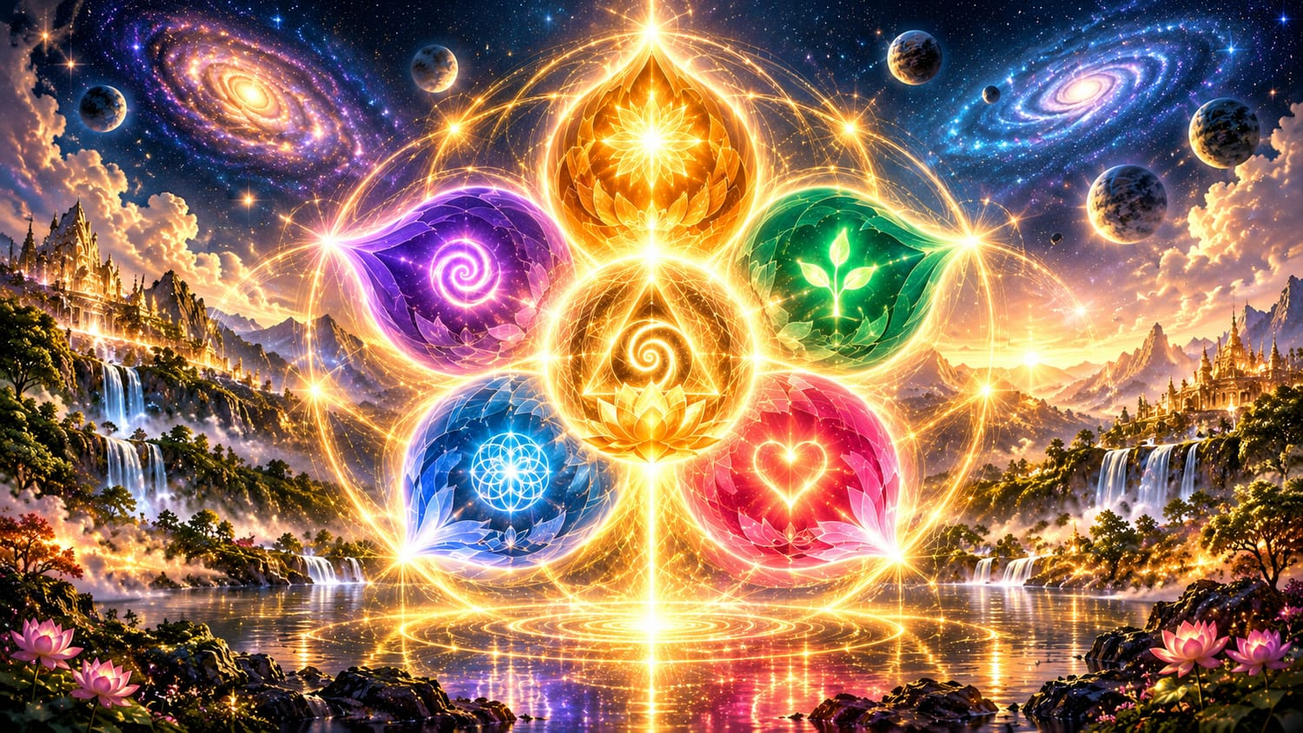
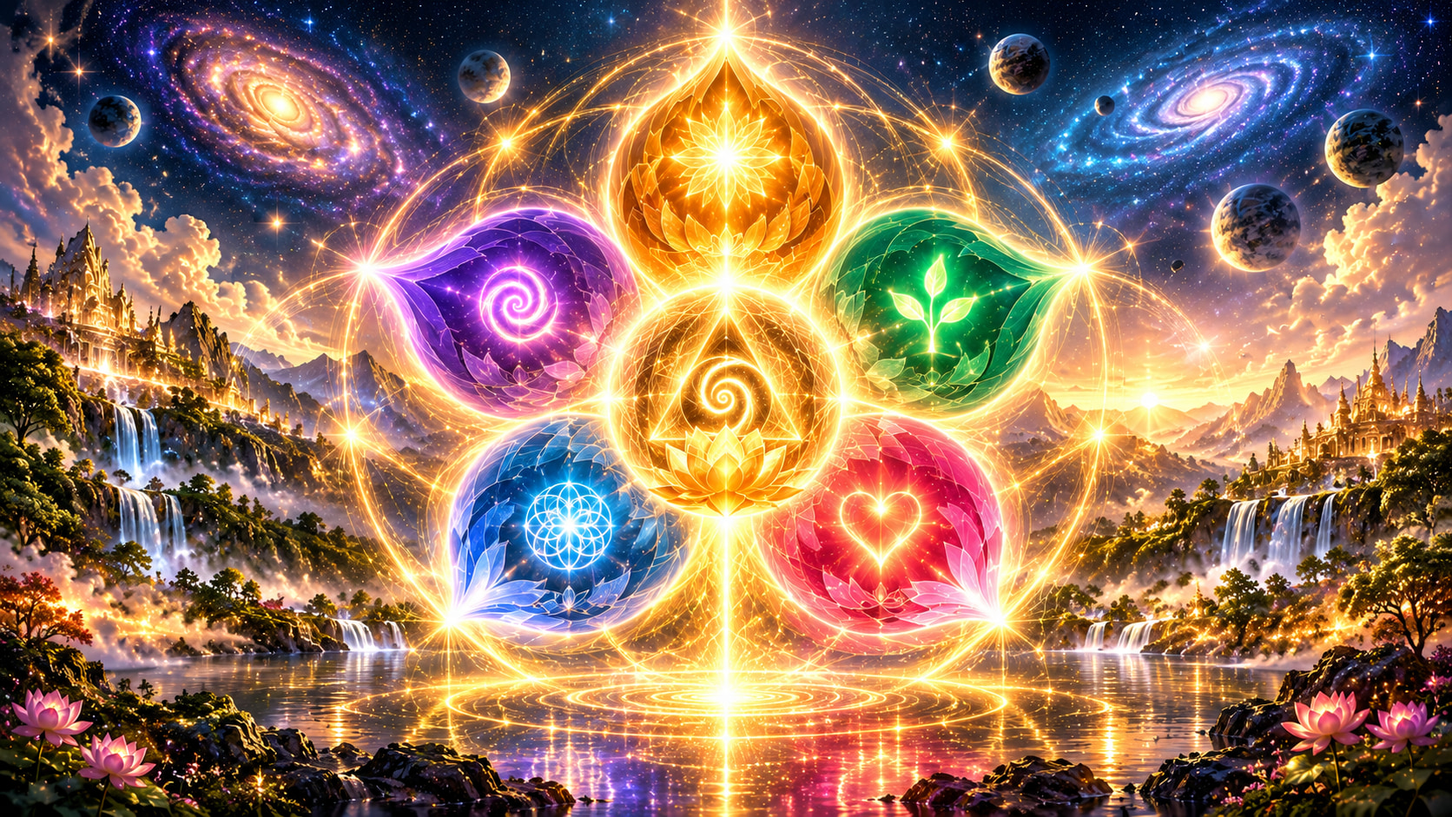
Open the site to search engines, restore full image quality
- Remove noindex from all public pages; add robots.txt and sitemap.xml (admin stays noindex and is never listed)
- Rebuild every site image from its lossless master at full native resolution (JPEG q92, 4:4:4, progressive)
  instead of the 1400px/q78 versions used for speed; portrait is now a lossless WebP with transparency
- Book covers re-encoded at higher quality; emblem at 640px; image width/height attributes match the files

diff --git a/vision.html b/vision.html
@@ -3,7 +3,6 @@
 <head>
 <meta charset="utf-8">
 <meta name="viewport" content="width=device-width, initial-scale=1">
-<meta name="robots" content="noindex, nofollow">
 <title>Consciousness Calling Vision</title>
 <link rel="icon" href="assets/img/img-02-emblem-transparent.png">
 <link rel="preconnect" href="https://fonts.googleapis.com">
@@ -51,7 +50,7 @@
         <p>The Master Light does not wait for every mind to awaken. Human beings may experience and express wisdom, compassion, truth and service without knowing the same spiritual vocabulary. Forms are many; the Supreme Consciousness that guides is One.</p>
         <div class="btns"><a class="btn ghost" href="master-light.html">Explore The Master Light</a></div>
       </div>
-    <figure class="figure fullimg opener" style="max-width:420px;margin:0 auto" data-fit-media><img src="assets/img/img-05-master-light-ebook.jpg" alt="Golden-light artwork from the eBook, with a radiant star above the words: God never left. He became your breath, your Heart, your Guru, until you remembered He was you. The Master Light lives within every Soul." width="900" height="1125" loading="eager" decoding="async" fetchpriority="high"></figure>
+    <figure class="figure fullimg opener" style="max-width:420px;margin:0 auto" data-fit-media><img src="assets/img/img-05-master-light-ebook.jpg" alt="Golden-light artwork from the eBook, with a radiant star above the words: God never left. He became your breath, your Heart, your Guru, until you remembered He was you. The Master Light lives within every Soul." width="1122" height="1402" loading="eager" decoding="async" fetchpriority="high"></figure>
     </div>
     <div class="narrow">
       <h3 style="margin-top:1.4em">One Consciousness — Three Divine Expressions</h3>
@@ -64,7 +63,7 @@
     <div class="narrow">
       <p style="margin-top:1.4em">These associations belong to the author’s contemplative framework; they are not presented as an identical doctrine across all traditions. Śiva as silent Presence, Śakti as living expression, and Mahāviṣṇu as the Living Field in which the Soul experiences and remembers. These are contemplative functional expressions of One Supreme Consciousness and not separate or incomplete aspects of Sat–Chit–Ānanda.</p>
     </div>
-    <div class="figure" style="max-width:520px;margin:1.5em auto"><img src="assets/img/img-06-shiva-shakti-mahavishnu.jpg" alt="Artwork of Śiva, Śakti and Mahāviṣṇu above a meditating figure, linked by a column of golden light." width="1100" height="1375" loading="lazy" decoding="async"></div>
+    <div class="figure" style="max-width:520px;margin:1.5em auto"><img src="assets/img/img-06-shiva-shakti-mahavishnu.jpg" alt="Artwork of Śiva, Śakti and Mahāviṣṇu above a meditating figure, linked by a column of golden light." width="1229" height="1536" loading="lazy" decoding="async"></div>
     <div class="narrow">
       <p class="lightcode">LIGHT CODE | ONE CONSCIOUSNESS → MANY HEARTS → ONE LIVING FIELD</p>
     </div>
@@ -81,7 +80,7 @@
     <p>Personal inspirations include Lord Śrī Krishna, Jesus, Ādi Śaṅkarācārya, Sri Dattatreya Swami, Śrīpāda Śrīvallabha and the Datta tradition, Maha Avatar Babaji (Kriya Babaji), Narasimha Saraswati, Akkalkot Maharaj, Manik Prabhu, Saptarishis, Potuluri Veerabrahmendra Swami, Shirdi Sai, 18 Sidda masters, Saptarishis, Ramana Maharshi, Swami Jyoti Ramalingam, Sri Aurobindo and The Mother, and Bhagavan Sri Sathya Sai Baba. This is a personal recognition of guidance, not a claim that these teachers taught the same philosophy.</p>
     <p>The Eternal Guru Presence does not ask us to reject living teachers or sacred forms. Outer guidance can deepen inner discernment, Dharma, compassion and responsible living.</p>
     <p class="lightcode">LIGHT CODE | OUTER GUIDANCE → INNER LIGHT → MASTER LIGHT → LIVING LIGHT &amp; LOVE</p>
-    <div class="figure fullimg wide"><img src="assets/img/img-05-one-light-many-guides.jpg" alt="Artwork titled One Light, Many Guides: many forms, one Eternal Presence. Eleven luminous portraits of spiritual guides arranged around a glowing heart above a meditating figure, with the Light Code Outer Guidance, Inner Light, Master Light, Living Light and Love." width="1400" height="788" loading="lazy" decoding="async"></div>
+    <div class="figure fullimg wide"><img src="assets/img/img-05-one-light-many-guides.jpg" alt="Artwork titled One Light, Many Guides: many forms, one Eternal Presence. Eleven luminous portraits of spiritual guides arranged around a glowing heart above a meditating figure, with the Light Code Outer Guidance, Inner Light, Master Light, Living Light and Love." width="1672" height="941" loading="lazy" decoding="async"></div>
   </div>
 </section>
 
@@ -96,7 +95,7 @@
     <p>Through personal Sādhana and reflection, the author offers an invitation—not a demand for belief. Readers are encouraged to notice, question, feel, discern and discover through their own experience.</p>
     <p class="lightcode">LIGHT CODE | MIND → HEART → INNER RECOGNITION → LOVE IN ACTION</p>
     <div class="flow" aria-label="Mind to Heart to Everyday Life"><span>Mind</span><i>→</i><span>Heart</span><i>→</i><span>Everyday Life</span></div>
-    <img class="emblem" src="assets/img/img-02-emblem-transparent.png" alt="Heart Awakening emblem: a golden circle holding a triangle and spiral above an open lotus." style="width:200px;margin:1.5em auto 0;display:block" width="420" height="420" loading="lazy" decoding="async">
+    <img class="emblem" src="assets/img/img-02-emblem-transparent.png" alt="Heart Awakening emblem: a golden circle holding a triangle and spiral above an open lotus." style="width:200px;margin:1.5em auto 0;display:block" width="640" height="640" loading="lazy" decoding="async">
   </div>
 </section>
 
@@ -119,14 +118,14 @@
       <p style="margin-top:1.4em">In this vision, 3D, 4D and 5D describe a contemplative movement from identification and separation toward self-observation, Heart-centered awareness, compassion and conscious living. The central invitation is to live differently on Earth, through relationships, responsibilities and service.</p>
       <h3>A symbolic Light Code for HUMAN</h3>
     </div>
-    <div class="figure fullimg wide"><img src="assets/img/img-human-light-code.jpg" alt="Artwork titled HUMAN, a symbolic Light Code: HU, Divine Light, plus MAN, Human embodiment, equals HUMAN, Light experiencing Life through form, with the Light Code Identification, Awareness, Heart, Conscious Living." width="1400" height="788" loading="lazy" decoding="async"></div>
+    <div class="figure fullimg wide"><img src="assets/img/img-human-light-code.jpg" alt="Artwork titled HUMAN, a symbolic Light Code: HU, Divine Light, plus MAN, Human embodiment, equals HUMAN, Light experiencing Life through form, with the Light Code Identification, Awareness, Heart, Conscious Living." width="1672" height="941" loading="lazy" decoding="async"></div>
     <div class="narrow">
       <p>HU + MAN is offered as a symbolic Light Code for reflecting on Divine Light and human embodiment. The deeper message is that the Light has never left; awakening is remembering and living from that Presence.</p>
       <p class="quote caps" style="font-family:var(--sans);font-style:normal">ASCENSION IS NOT THE RETURN OF LIGHT. IT IS THE HUMAN REMEMBERING THE LIGHT THAT NEVER LEFT.</p>
       <p>The Heart Awakening is not about leaving Earth. It is about living differently on Earth—in relationships, work, Dharma, compassion and service.</p>
       <p class="lightcode">LIGHT CODE | IDENTIFICATION → AWARENESS → HEART → CONSCIOUS LIVING</p>
     </div>
-    <div class="figure"><img src="assets/img/img-08-heart-awakening.jpg" alt="Artwork titled The Heart Awakening, the 5D Consciousness Vision: a figure walking through a fractured city (3D, the Identified Mind), a luminous Earth (4D, the Awakening Awareness) and a flowering landscape (5D, the Heart-Centered Life)." width="1400" height="788" loading="lazy" decoding="async"></div>
+    <div class="figure"><img src="assets/img/img-08-heart-awakening.jpg" alt="Artwork titled The Heart Awakening, the 5D Consciousness Vision: a figure walking through a fractured city (3D, the Identified Mind), a luminous Earth (4D, the Awakening Awareness) and a flowering landscape (5D, the Heart-Centered Life)." width="1672" height="941" loading="lazy" decoding="async"></div>
   </div>
 </section>
 
@@ -141,7 +140,7 @@
     <p>Such recognition finds its true expression not only in spiritual understanding but also in how we live—with compassion, respect for all beings, responsibility toward Nature, and genuine care for the happiness and well-being of others.</p>
     <p class="quote">Samasta Lokāḥ Sukhino Bhavantu — May all beings, in all worlds, be happy.</p>
     <p class="lightcode">LIGHT CODE | MANY PATHS → ONE CONSCIOUSNESS → LIVING COMPASSION → UNIVERSAL WELL-BEING</p>
-    <div class="figure"><img src="assets/img/img-sanatana-dharma.jpg" alt="Artwork titled Sanātana Dharma, Unity in Diversity: many paths and people of different traditions winding through one shared landscape toward a luminous heart and rising sun, with the Light Code Many Paths, One Consciousness, Living Compassion, Universal Well-Being." width="1400" height="787" loading="lazy" decoding="async"></div>
+    <div class="figure"><img src="assets/img/img-sanatana-dharma.jpg" alt="Artwork titled Sanātana Dharma, Unity in Diversity: many paths and people of different traditions winding through one shared landscape toward a luminous heart and rising sun, with the Light Code Many Paths, One Consciousness, Living Compassion, Universal Well-Being." width="1672" height="940" loading="lazy" decoding="async"></div>
   </div>
 </section>
 

diff --git a/index.html b/index.html
@@ -3,7 +3,6 @@
 <head>
 <meta charset="utf-8">
 <meta name="viewport" content="width=device-width, initial-scale=1">
-<meta name="robots" content="noindex, nofollow">
 <title>Consciousness Calling — Living with I AM Presence</title>
 <meta name="description" content="Layout preview: author website for Consciousness Calling — Living with I AM Presence.">
 <link rel="icon" href="assets/img/img-02-emblem-transparent.png">
@@ -31,7 +30,7 @@
     </div>
     <div class="hero-art">
       <p class="hero-caption">One Consciousness. An Ever-Unfolding Journey.</p>
-      <img src="assets/img/img-01-hero.jpg" alt="Artwork of the Five Living Movements: five glowing petals and sacred emblems of light radiating over a cosmic landscape of mountains, waterfalls, galaxies and serene waters with lotus blossoms." width="1500" height="844" loading="eager" decoding="async" fetchpriority="high">
+      <img src="assets/img/img-01-hero.jpg" alt="Artwork of the Five Living Movements: five glowing petals and sacred emblems of light radiating over a cosmic landscape of mountains, waterfalls, galaxies and serene waters with lotus blossoms." width="1672" height="941" loading="eager" decoding="async" fetchpriority="high">
     </div>
   </div>
 </section>
@@ -39,7 +38,7 @@
 <!-- 02 What Is Consciousness Calling? — IMG-02 -->
 <section class="block">
   <div class="wrap narrow center">
-    <img class="emblem" src="assets/img/img-02-emblem-transparent.png" alt="Heart Awakening emblem: a golden circle holding a triangle and spiral above an open lotus." width="420" height="420" loading="lazy" decoding="async">
+    <img class="emblem" src="assets/img/img-02-emblem-transparent.png" alt="Heart Awakening emblem: a golden circle holding a triangle and spiral above an open lotus." width="640" height="640" loading="lazy" decoding="async">
     <h2>What Is Consciousness Calling?</h2>
     <p>Consciousness Calling is not a journey in which a human being strives to reach a distant God. It offers a spiritual vision in which the Supreme Consciousness already present in every Heart is calling from within and expressing itself through human life.</p>
     <p class="quote">Not the Soul searching for Consciousness… but Consciousness calling itself through the Soul.</p>
@@ -101,7 +100,7 @@
 <!-- 06 Inner Sun — IMG-09 -->
 <section class="block">
   <div class="wrap">
-    <div class="figure"><img src="assets/img/img-09-inner-sun.jpg" alt="Artwork titled Living as One: Viṣṇu, Śiva and Śakti as three distinct sacred representations around One Living Reality, with a meditating figure below, and the words Awakening is Recognition." width="1400" height="787" loading="lazy" decoding="async"></div>
+    <div class="figure"><img src="assets/img/img-09-inner-sun.jpg" alt="Artwork titled Living as One: Viṣṇu, Śiva and Śakti as three distinct sacred representations around One Living Reality, with a meditating figure below, and the words Awakening is Recognition." width="1672" height="940" loading="lazy" decoding="async"></div>
     <div class="narrow center">
       <p class="eyebrow">Inner Sun</p>
       <h2>INNER SUN — SHIVA SAKTHI FIELD</h2>
@@ -119,7 +118,7 @@
     <h2>THE SEVEN DOORWAYS — FROM MIND TO HEART</h2>
     <p class="lightcode">NOTICE → PAUSE → FEEL → RECOGNIZE → ALIGN → REMEMBER → LIVE</p>
     <p>Revisitable invitations for conscious living, not compulsory levels of attainment.</p>
-    <div class="figure fullimg wide"><img src="assets/img/img-10-seven-doorways.jpg" alt="Artwork titled The Seven Doorways, From Mind to Heart: seven glowing arched doorways, Notice, Pause, Feel, Recognize, Align, Remember and Live, each with its own symbol, along a flowing stream." width="1400" height="788" loading="lazy" decoding="async"></div>
+    <div class="figure fullimg wide"><img src="assets/img/img-10-seven-doorways.jpg" alt="Artwork titled The Seven Doorways, From Mind to Heart: seven glowing arched doorways, Notice, Pause, Feel, Recognize, Align, Remember and Live, each with its own symbol, along a flowing stream." width="1672" height="941" loading="lazy" decoding="async"></div>
     <div class="btns" style="justify-content:center"><a class="btn ghost" href="explore.html#doorways">Explore The Seven Doorways</a></div>
   </div>
 </section>
@@ -127,7 +126,7 @@
 <!-- 09 Living Light & Love — IMG-12 -->
 <section class="block">
   <div class="wrap center">
-    <div class="figure"><img src="assets/img/img-12-living-light-love.jpg" alt="Closing artwork of Living Light and Love." width="1400" height="788" loading="lazy" decoding="async"></div>
+    <div class="figure"><img src="assets/img/img-12-living-light-love.jpg" alt="Closing artwork of Living Light and Love." width="1672" height="941" loading="lazy" decoding="async"></div>
     <h2>We allow the Light and Love already within us to become our way of living.</h2>
     <div class="btns">
       <a class="btn" href="connect.html#updates">Follow Book Updates</a>

diff --git a/explore.html b/explore.html
@@ -3,7 +3,6 @@
 <head>
 <meta charset="utf-8">
 <meta name="viewport" content="width=device-width, initial-scale=1">
-<meta name="robots" content="noindex, nofollow">
 <title>Explore Consciousness Calling</title>
 <link rel="icon" href="assets/img/img-02-emblem-transparent.png">
 <link rel="preconnect" href="https://fonts.googleapis.com">
@@ -21,7 +20,7 @@
       <h1>THE FIVE LIVING MOVEMENTS</h1>
       <p class="subtitle">One Consciousness. An Ever-Unfolding Journey.</p>
     </div>
-    <div class="figure"><img src="assets/img/img-07-five-movements.jpg" alt="Artwork titled The Five Living Movements, One Consciousness, an Ever-Unfolding Journey: five glowing petals around a central emblem, with Consciousness Calling, Consciousness Revealing, Consciousness Living, Consciousness Embodied and The Great Remembering, and the Light Code Recognize, Reveal, Live, Embody, Remember and Serve." width="1400" height="788" loading="eager" decoding="async" fetchpriority="high"></div>
+    <div class="figure"><img src="assets/img/img-07-five-movements.jpg" alt="Artwork titled The Five Living Movements, One Consciousness, an Ever-Unfolding Journey: five glowing petals around a central emblem, with Consciousness Calling, Consciousness Revealing, Consciousness Living, Consciousness Embodied and The Great Remembering, and the Light Code Recognize, Reveal, Live, Embody, Remember and Serve." width="1672" height="941" loading="eager" decoding="async" fetchpriority="high"></div>
     <ol class="mflow" aria-label="The Five Living Movements">
       <li><strong>Consciousness Calling</strong><span>Hear</span></li>
       <li><strong>Consciousness Revealing</strong><span>See</span></li>
@@ -39,7 +38,7 @@
 
 <section class="block alt" id="heart-awakening">
   <div class="wrap">
-    <div class="figure"><img src="assets/img/img-08-heart-awakening.jpg" alt="Artwork titled The Heart Awakening, the 5D Consciousness Vision: a figure walking through a fractured city (3D, the Identified Mind), a luminous Earth (4D, the Awakening Awareness) and a flowering landscape (5D, the Heart-Centered Life)." width="1400" height="788" loading="lazy" decoding="async"></div>
+    <div class="figure"><img src="assets/img/img-08-heart-awakening.jpg" alt="Artwork titled The Heart Awakening, the 5D Consciousness Vision: a figure walking through a fractured city (3D, the Identified Mind), a luminous Earth (4D, the Awakening Awareness) and a flowering landscape (5D, the Heart-Centered Life)." width="1672" height="941" loading="lazy" decoding="async"></div>
     <div class="narrow center">
       <h2>THE HEART AWAKENING — THE 5D CONSCIOUSNESS VISION</h2>
       <p>The next evolution of human life is not merely about what humanity can create through the Mind, but how consciously humanity can live through the Heart. The Heart Awakening is not about leaving Earth. It is about learning to live differently on Earth.</p>
@@ -56,7 +55,7 @@
       <p class="lightcode">NOTICE → PAUSE → FEEL → RECOGNIZE → ALIGN → REMEMBER → LIVE</p>
       <p>Revisitable invitations for conscious living, not compulsory levels of attainment.</p>
     </div>
-    <div class="figure fullimg wide"><img src="assets/img/img-10-seven-doorways.jpg" alt="Artwork titled The Seven Doorways, From Mind to Heart: seven glowing arched doorways, Notice, Pause, Feel, Recognize, Align, Remember and Live, each with its own symbol, along a flowing stream." width="1400" height="788" loading="lazy" decoding="async"></div>
+    <div class="figure fullimg wide"><img src="assets/img/img-10-seven-doorways.jpg" alt="Artwork titled The Seven Doorways, From Mind to Heart: seven glowing arched doorways, Notice, Pause, Feel, Recognize, Align, Remember and Live, each with its own symbol, along a flowing stream." width="1672" height="941" loading="lazy" decoding="async"></div>
     <div class="doortable-wrap">
       <table class="doortable">
         <caption class="sr-only">The Seven Doorways, with the focus and Light Code of each</caption>

diff --git a/inner-sun.html b/inner-sun.html
@@ -3,7 +3,6 @@
 <head>
 <meta charset="utf-8">
 <meta name="viewport" content="width=device-width, initial-scale=1">
-<meta name="robots" content="noindex, nofollow">
 <title>Inner Sun — Shiva Sakthi Field</title>
 <link rel="icon" href="assets/img/img-02-emblem-transparent.png">
 <link rel="preconnect" href="https://fonts.googleapis.com">
@@ -15,7 +14,7 @@
 <main id="main">
 <section class="block alt">
   <div class="wrap">
-    <div class="figure"><img src="assets/img/img-09-inner-sun.jpg" alt="Artwork titled Living as One: Viṣṇu, Śiva and Śakti as three distinct sacred representations around One Living Reality, with a meditating figure below, and the words Awakening is Recognition." width="1400" height="787" loading="eager" decoding="async" fetchpriority="high"></div>
+    <div class="figure"><img src="assets/img/img-09-inner-sun.jpg" alt="Artwork titled Living as One: Viṣṇu, Śiva and Śakti as three distinct sacred representations around One Living Reality, with a meditating figure below, and the words Awakening is Recognition." width="1672" height="940" loading="eager" decoding="async" fetchpriority="high"></div>
     <div class="narrow center">
       <p class="eyebrow">Inner Sun</p>
       <h1>INNER SUN — SHIVA SAKTHI FIELD</h1>
@@ -33,7 +32,7 @@
       <div class="card"><h3>ŚAKTI — Divine Movement</h3><p>Conscious Power, Grace, Wisdom, Love and the living expression of creation.</p><p>Sat–Chit–Ānanda, revealed through the Divine Mother's fullness.</p><p class="code">Living Power / Expression</p></div>
       <div class="card"><h3>MAHĀVIṢṆU — Living Intelligence</h3><p>Divine order, sustenance, harmony and the intelligence through which life is supported.</p><p>Sat–Chit–Ānanda, revealed through the fullness of Divine Presence.</p><p class="code">Universal Intelligence/Sustaining Living Field / Harmony</p></div>
     </div>
-      <div class="figure" style="max-width:520px;margin:1.5em auto"><img src="assets/img/img-06-shiva-shakti-mahavishnu.jpg" alt="Artwork of Śiva, Śakti and Mahāviṣṇu above a meditating figure, linked by a column of golden light." width="1100" height="1375" loading="lazy" decoding="async"></div>
+      <div class="figure" style="max-width:520px;margin:1.5em auto"><img src="assets/img/img-06-shiva-shakti-mahavishnu.jpg" alt="Artwork of Śiva, Śakti and Mahāviṣṇu above a meditating figure, linked by a column of golden light." width="1229" height="1536" loading="lazy" decoding="async"></div>
       <p class="lightcode">LIGHT CODE | ONE CONSCIOUSNESS → MANY HEARTS → ONE LIVING FIELD</p>
       <p>Recognize the Presence within. Allow Light and Love to become your way of living.</p>
       <p class="lightcode">ONE HEART. ONE CONSCIOUSNESS. ONE LIVING FIELD.</p>

diff --git a/master-light.html b/master-light.html
@@ -3,7 +3,6 @@
 <head>
 <meta charset="utf-8">
 <meta name="viewport" content="width=device-width, initial-scale=1">
-<meta name="robots" content="noindex, nofollow">
 <title>The Master Light — Consciousness Calling</title>
 <link rel="icon" href="assets/img/img-02-emblem-transparent.png">
 <link rel="preconnect" href="https://fonts.googleapis.com">
@@ -19,7 +18,7 @@
       <p class="eyebrow">The Master Light</p>
       <h1>CONSCIOUSNESS CALLING — THE MASTER LIGHT WITHIN</h1>
     </div>
-    <figure class="figure fullimg wide"><img src="assets/img/about-master-light-within.jpg" alt="Artwork titled The Master Light Within: a luminous figure seated in a lotus above Earth, with a path of people walking toward the light, and a Light Code from Master Light to I AM Presence, Soul, Heart, Wisdom, Living Light and Humanity." width="1400" height="788" loading="eager" decoding="async" fetchpriority="high"></figure>
+    <figure class="figure fullimg wide"><img src="assets/img/about-master-light-within.jpg" alt="Artwork titled The Master Light Within: a luminous figure seated in a lotus above Earth, with a path of people walking toward the light, and a Light Code from Master Light to I AM Presence, Soul, Heart, Wisdom, Living Light and Humanity." width="1672" height="941" loading="eager" decoding="async" fetchpriority="high"></figure>
     <div class="narrow center">
       <h2>Central Transmission</h2>
       <p class="lead">The Supreme Consciousness shines within every Soul as the I AM Presence. As each Soul walks in that Light, the path becomes visible for humanity.</p>
@@ -45,7 +44,7 @@
     <div class="narrow center">
       <h2>The Sai Avatar Guidance</h2>
     </div>
-    <figure class="figure fullimg wide"><img src="assets/img/about-sai-guidance.jpg" alt="Artwork titled Three Forms, One Presence, The Master Light Within: portraits of Shirdi Sai and Sathya Sai beside a pink-and-gold lotus for Prema Sai, above a gathering of people, with the Light Code Faith, Awakening, Love." width="1400" height="788" loading="lazy" decoding="async"></figure>
+    <figure class="figure fullimg wide"><img src="assets/img/about-sai-guidance.jpg" alt="Artwork titled Three Forms, One Presence, The Master Light Within: portraits of Shirdi Sai and Sathya Sai beside a pink-and-gold lotus for Prema Sai, above a gathering of people, with the Light Code Faith, Awakening, Love." width="1672" height="941" loading="lazy" decoding="async"></figure>
     <div class="narrow center">
       <p class="lead">THREE FORMS. ONE PRESENCE.<br>THE MASTER LIGHT WITHIN.</p>
       <p>The author’s journey is deeply inspired by Bhagavan Sri Sathya Sai Baba and the Sai Avatar tradition.</p>

diff --git a/light-code.html b/light-code.html
@@ -3,7 +3,6 @@
 <head>
 <meta charset="utf-8">
 <meta name="viewport" content="width=device-width, initial-scale=1">
-<meta name="robots" content="noindex, nofollow">
 <title>The Language of Light Codes — Consciousness Calling</title>
 <link rel="icon" href="assets/img/img-02-emblem-transparent.png">
 <link rel="preconnect" href="https://fonts.googleapis.com">
@@ -32,7 +31,7 @@
     <div class="narrow center">
       <h2>THE LANGUAGE OF LIGHT CODES</h2>
     </div>
-    <figure class="figure fullimg opener lc-fig"><img src="assets/img/lightcode-language.jpg" alt="Artwork titled The Language of Light Codes, a visual doorway from seeing to inner remembrance: Śiva and Śakti above a lotus, with four stages, 1 Symbol the Doorway, 2 Heart Recognition the Inner Response, 3 Soul Remembrance the Inner Knowing, and 4 Consciousness Expansion the Living Expression, and the Light Code Light Code, Heart Recognition, Soul Remembrance, Conscious Living." width="1100" height="1375" loading="eager" decoding="async" fetchpriority="high"></figure>
+    <figure class="figure fullimg opener lc-fig"><img src="assets/img/lightcode-language.jpg" alt="Artwork titled The Language of Light Codes, a visual doorway from seeing to inner remembrance: Śiva and Śakti above a lotus, with four stages, 1 Symbol the Doorway, 2 Heart Recognition the Inner Response, 3 Soul Remembrance the Inner Knowing, and 4 Consciousness Expansion the Living Expression, and the Light Code Light Code, Heart Recognition, Soul Remembrance, Conscious Living." width="1122" height="1402" loading="eager" decoding="async" fetchpriority="high"></figure>
     <div class="narrow center">
       <p class="lightcode">THE LIGHT CODE IS A DOORWAY. THE HEART RECOGNIZES. LIFE BECOMES THE EXPRESSION.</p>
       <p>These are possible movements of experience—not compulsory stages or promises of a particular result. You do not need to understand every symbol or feel something extraordinary. Simply observe, pause, and allow your own experience and discernment to guide you.</p>

diff --git a/my-writing.html b/my-writing.html
@@ -3,7 +3,6 @@
 <head>
 <meta charset="utf-8">
 <meta name="viewport" content="width=device-width, initial-scale=1">
-<meta name="robots" content="noindex, nofollow">
 <title>My Writings — Consciousness Calling</title>
 <link rel="icon" href="assets/img/img-02-emblem-transparent.png">
 <link rel="preconnect" href="https://fonts.googleapis.com">
@@ -20,7 +19,7 @@
     </div>
     <div class="writings">
       <article class="writing">
-        <div class="figure fullimg opener"><img src="assets/img/writing-five-living-movements.jpg" alt="Artwork titled Consciousness Calling, The Five Living Movements, One Consciousness, an Ever-Unfolding Journey: five meditating figures rising on lotuses along a spiral of golden light, labelled 01 Consciousness Calling, 02 Consciousness Revealing, 03 Consciousness Living, 04 Consciousness Embodied and 05 The Great Remembering, with the line Inner Recognize, Reveal, Live, Embody, Remember." width="1100" height="1375" loading="eager" decoding="async" fetchpriority="high"></div>
+        <div class="figure fullimg opener"><img src="assets/img/writing-five-living-movements.jpg" alt="Artwork titled Consciousness Calling, The Five Living Movements, One Consciousness, an Ever-Unfolding Journey: five meditating figures rising on lotuses along a spiral of golden light, labelled 01 Consciousness Calling, 02 Consciousness Revealing, 03 Consciousness Living, 04 Consciousness Embodied and 05 The Great Remembering, with the line Inner Recognize, Reveal, Live, Embody, Remember." width="1122" height="1402" loading="eager" decoding="async" fetchpriority="high"></div>
         <div class="writing-text">
           <h2>CONSCIOUSNESS CALLING<span class="bk-sub">The Larger Body of Work</span></h2>
           <p>Consciousness Calling is intended as the master identity for a larger body of work. The architecture is deliberately not being forced into a fixed number of books. Five major movements are presently visible.</p>

diff --git a/faqs.html b/faqs.html
@@ -3,7 +3,6 @@
 <head>
 <meta charset="utf-8">
 <meta name="viewport" content="width=device-width, initial-scale=1">
-<meta name="robots" content="noindex, nofollow">
 <title>Frequently Asked Questions — Consciousness Calling</title>
 <link rel="icon" href="assets/img/img-02-emblem-transparent.png">
 <link rel="preconnect" href="https://fonts.googleapis.com">
@@ -84,7 +83,7 @@
           <p>This personal recognition does not imply a single historical lineage, identical philosophies or endorsement of Consciousness Calling by the teachers shown.</p>
           <p>Outer teachers, sacred forms and living traditions can continue to support inner understanding.</p>
           <figure class="figure faq-figure">
-            <img src="assets/img/faq-05-one-light-many-guides.jpg" alt="Artwork titled One Light, Many Guides: many forms, one Eternal Presence, a figure in meditation beneath a glowing heart and lotus with symbols of many faiths, listing personal inspirations from Lord Śrī Krishna to Bhagavan Sri Sathya Sai Baba, with the Light Code Outer Guidance, Inner Light, Master Light, Living Light and Love." width="1400" height="788" loading="eager" decoding="async" fetchpriority="high">
+            <img src="assets/img/faq-05-one-light-many-guides.jpg" alt="Artwork titled One Light, Many Guides: many forms, one Eternal Presence, a figure in meditation beneath a glowing heart and lotus with symbols of many faiths, listing personal inspirations from Lord Śrī Krishna to Bhagavan Sri Sathya Sai Baba, with the Light Code Outer Guidance, Inner Light, Master Light, Living Light and Love." width="1672" height="941" loading="eager" decoding="async" fetchpriority="high">
           </figure>
         </div>
       </article>

diff --git a/server/app.js b/server/app.js
@@ -96,6 +96,23 @@ function createApp({ cfg, data, storage, campaigns }) {
     res.type(type).set("Cache-Control", "no-cache").send(body);
   };
 
+  // ---- search engines ---------------------------------------------------------------------------
+  // The public pages are open to search engines. The admin is NOT listed here on purpose (listing it
+  // would advertise the hidden path); it is kept out of search by its own noindex header and meta tag.
+  const SITEMAP_PAGES = ["", "about.html", "vision.html", "mission.html", "great-transition.html", "master-light.html",
+    "book.html", "explore.html", "inner-sun.html", "light-code.html", "my-writing.html", "faqs.html", "downloads.html", "connect.html"];
+  const siteOrigin = (req) => cfg.siteUrl || `${req.protocol}://${req.get("host")}`;
+  app.get("/robots.txt", (req, res) => {
+    res.type("text/plain").set("Cache-Control", "public, max-age=3600")
+      .send(`User-agent: *\nAllow: /\nDisallow: /api/\nDisallow: /unsubscribe\n\nSitemap: ${siteOrigin(req)}/sitemap.xml\n`);
+  });
+  app.get("/sitemap.xml", (req, res) => {
+    const base = siteOrigin(req);
+    const urls = SITEMAP_PAGES.map((p) => `  <url><loc>${base}/${p}</loc></url>`).join("\n");
+    res.type("application/xml").set("Cache-Control", "public, max-age=3600")
+      .send(`<?xml version="1.0" encoding="UTF-8"?>\n<urlset xmlns="http://www.sitemaps.org/schemas/sitemap/0.9">\n${urls}\n</urlset>\n`);
+  });
+
   app.get("/", (req, res, next) => sendTransformed(path.join(ROOT, "index.html"), "html", res).catch(next));
   app.get(PAGE_RE, async (req, res, next) => {
     const file = path.join(ROOT, `${req.path.slice(1)}`);

diff --git a/tests/api.test.js b/tests/api.test.js
@@ -360,3 +360,24 @@ test("rate limiting protects the subscribe form", async () => {
     assert.ok(limited, "too many sign-ups from one address are throttled");
   } finally { await s.close(); }
 });
+
+test("search engines: public pages are indexable, the admin is not, and it is never advertised", async () => {
+  const s = await start();
+  try {
+    const robots = await fetch(`${s.base}/robots.txt`);
+    assert.equal(robots.status, 200);
+    const robotsText = await robots.text();
+    assert.match(robotsText, /Sitemap: .*\/sitemap\.xml/);
+    assert.ok(!robotsText.includes(ADMIN), "robots.txt must not reveal the hidden admin path");
+    const map = await (await fetch(`${s.base}/sitemap.xml`)).text();
+    assert.match(map, /<urlset/);
+    assert.ok(map.includes("/downloads.html") && map.includes("/faqs.html"));
+    assert.ok(!map.includes(ADMIN), "the sitemap must not list the admin");
+    for (const page of ["/index.html", "/about.html", "/downloads.html", "/faqs.html"]) {
+      const html = await (await fetch(`${s.base}${page}`)).text();
+      assert.ok(!/name="robots"[^>]*noindex/i.test(html), `${page} must not be marked noindex`);
+    }
+    const adminRes = await fetch(`${s.base}${ADMIN}/`);
+    assert.match(adminRes.headers.get("x-robots-tag") || "", /noindex/, "admin is kept out of search");
+  } finally { await s.close(); }
+});

diff --git a/about.html b/about.html
@@ -3,7 +3,6 @@
 <head>
 <meta charset="utf-8">
 <meta name="viewport" content="width=device-width, initial-scale=1">
-<meta name="robots" content="noindex, nofollow">
 <title>About the Author — Consciousness Calling</title>
 <link rel="icon" href="assets/img/img-02-emblem-transparent.png">
 <link rel="preconnect" href="https://fonts.googleapis.com">
@@ -15,7 +14,7 @@
 <main id="main">
 <section class="block">
   <div class="wrap two-col about-hero">
-    <figure class="figure author-portrait"><img src="assets/img/author-raghuveera.png" alt="Portrait of Raghuveera (Ra Soul), the author, with flowers and a diya's light behind him." width="900" height="900" loading="eager" decoding="async" fetchpriority="high"></figure>
+    <figure class="figure author-portrait"><img src="assets/img/author-raghuveera.webp" alt="Portrait of Raghuveera (Ra Soul), the author, with flowers and a diya's light behind him." width="1254" height="1254" loading="eager" decoding="async" fetchpriority="high"></figure>
     <div>
       <p class="eyebrow">About the Author</p>
       <h1>Raghuveera (Ra Soul)</h1>

diff --git a/great-transition.html b/great-transition.html
@@ -3,7 +3,6 @@
 <head>
 <meta charset="utf-8">
 <meta name="viewport" content="width=device-width, initial-scale=1">
-<meta name="robots" content="noindex, nofollow">
 <title>The Great Transition — Consciousness Calling</title>
 <link rel="icon" href="assets/img/img-02-emblem-transparent.png">
 <link rel="preconnect" href="https://fonts.googleapis.com">
